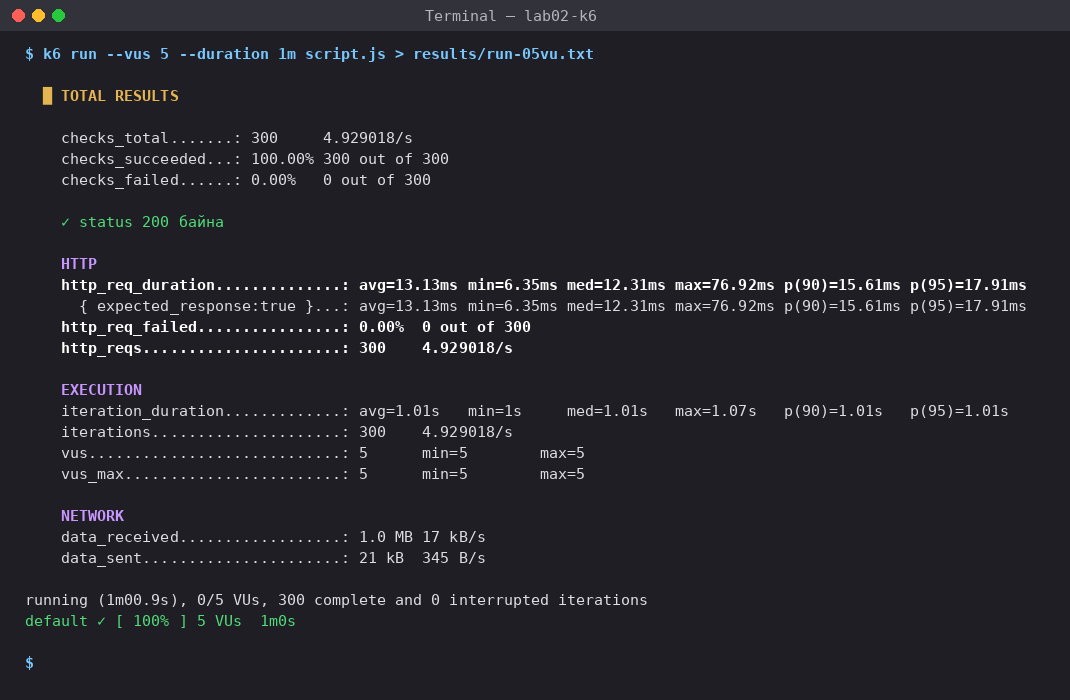
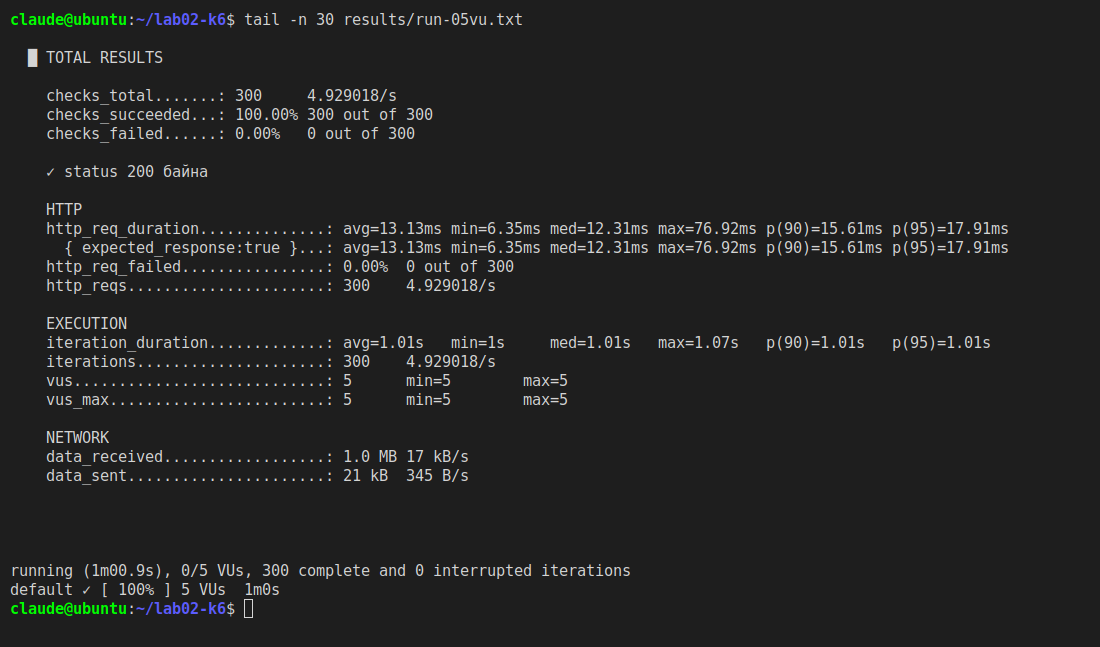
Дэлгэцийн зургуудыг бодит xterm терминалын зургаар сольсон

diff --git a/README.md b/README.md
@@ -58,7 +58,7 @@ k6 run --vus 100 --duration 1m script-slow.js > results/slow-100vu.txt
 | [`server/server.js`](server/server.js) | Локал тест сервер |
 | [`extract-table.sh`](extract-table.sh) | `results/run-*vu.txt`-ээс хүснэгтийн тоог задалдаг скрипт |
 | [`results/`](results/) | k6-ийн **бүтэн текст гаралтууд** |
-| [`screenshots/`](screenshots/) | k6 summary гаралтын дэлгэцийн зургууд |
+| [`screenshots/`](screenshots/) | k6 summary гаралтын дэлгэцийн зургууд (xterm терминал дээр `results/` дахь гаралтын файлыг `tail`-аар харуулж авсан) |
 
 ## 3. Алхам 2 — Анхны тест ба BASELINE
 
